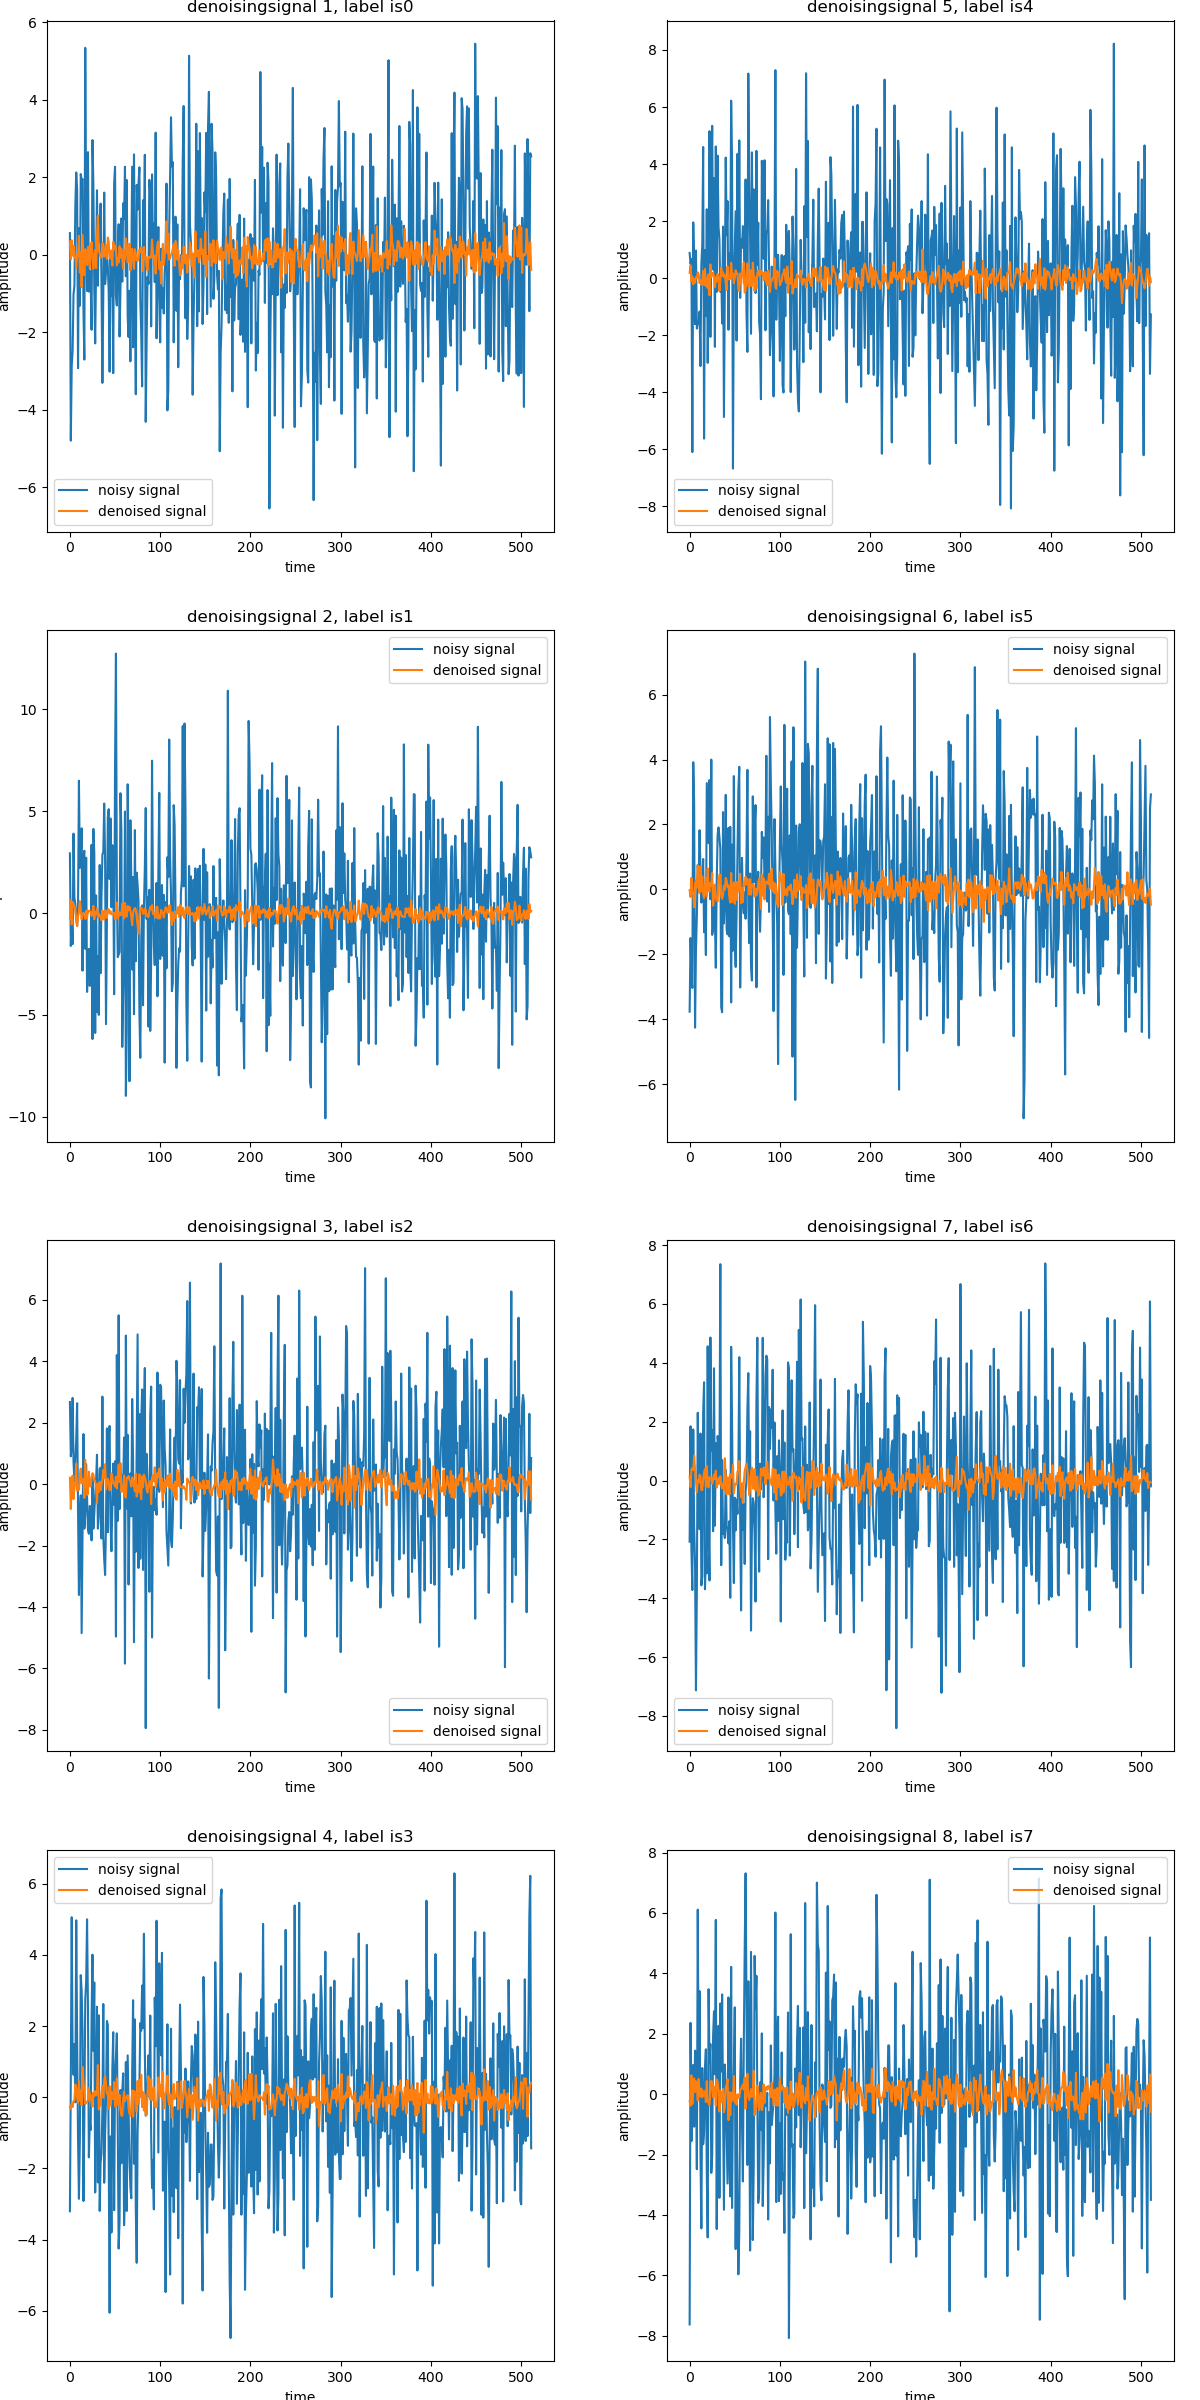
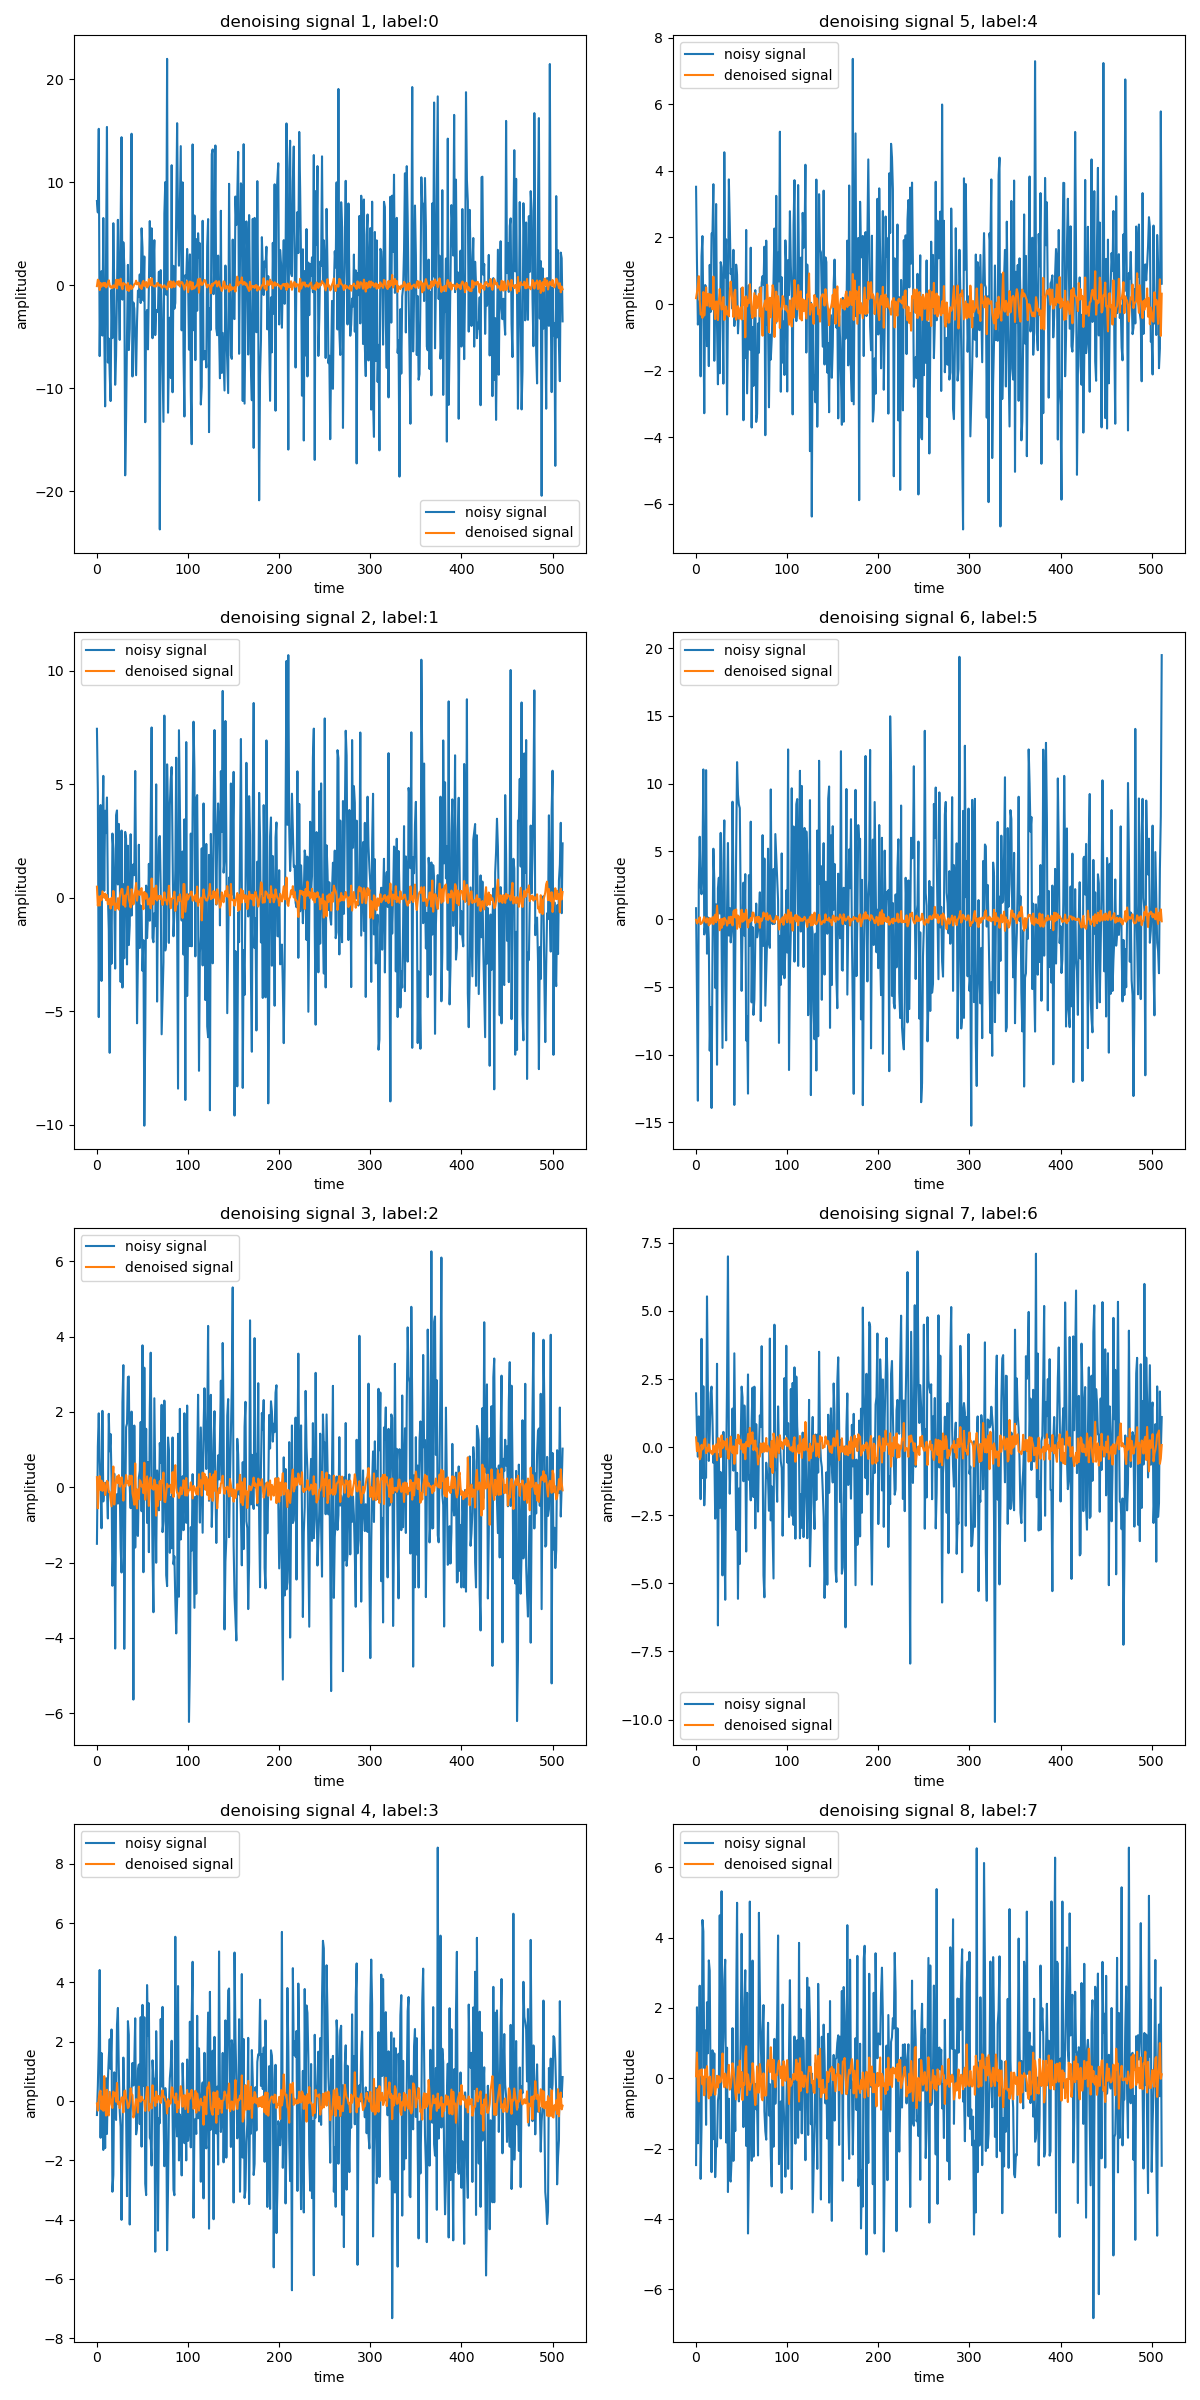
去噪图片调节

diff --git a/train.py b/train.py
@@ -472,17 +472,18 @@ def prepare_data(data_path='./data',
             dataset.data[pre:] = cur
         # 绘制8个处理后的信号
         fig, axs = plt.subplots(4, 2, figsize=(12, 24))
-        fig.tight_layout(h_pad=5, w_pad=5)
         for i in range(8):
             ax = axs[i % 4, i // 4]
             ax.plot(noisy_signals[i][0], label='noisy signal')  # 绘制噪声信号
             ax.plot(dataset.data[indexes[i]][0], label='denoised signal')  # 绘制去噪后的信号
             ax.set_xlabel('time')
             ax.set_ylabel('amplitude')
-            ax.set_title(task_type + f'signal {i + 1}, label is{dataset.target[indexes[i]]}')
+            ax.set_title(task_type + f' signal {i + 1}, label:{dataset.target[indexes[i]]}')
             ax.legend()
         # 保存图像
+        fig.tight_layout()
         plt.savefig(os.path.join('./work_dirs/classify', task_type + '_signal.png'))
+        plt.close()
         # 将处理后的数据保存
         dataset.save(root_dir, 'reduce_noise_model_bi_lstm_big_huber_loss_power_snr')
     else:
@@ -494,16 +495,16 @@ def prepare_data(data_path='./data',
         for i in range(8):
             indexes.append(np.random.choice(np.where(dataset.target == i)[0]))
         fig, axs = plt.subplots(4, 2, figsize=(12, 24))
-        fig.tight_layout(h_pad=5, w_pad=5)
         for i in range(8):
             ax = axs[i % 4, i // 4]
             ax.plot(dataset.data[indexes[i]][0])
             ax.set_xlabel('time')
             ax.set_ylabel('amplitude')
-            ax.set_title(task_type + f'signal {i + 1}, label is{dataset.target[indexes[i]]}')
+            ax.set_title(task_type + f' signal {i + 1}, label:{dataset.target[indexes[i]]}')
 
-
+        fig.tight_layout()
         plt.savefig(os.path.join('./work_dirs/classify', task_type + '_signal.png'))
+        plt.close()
     print('data prepared')
     return dataset, task_type
 
